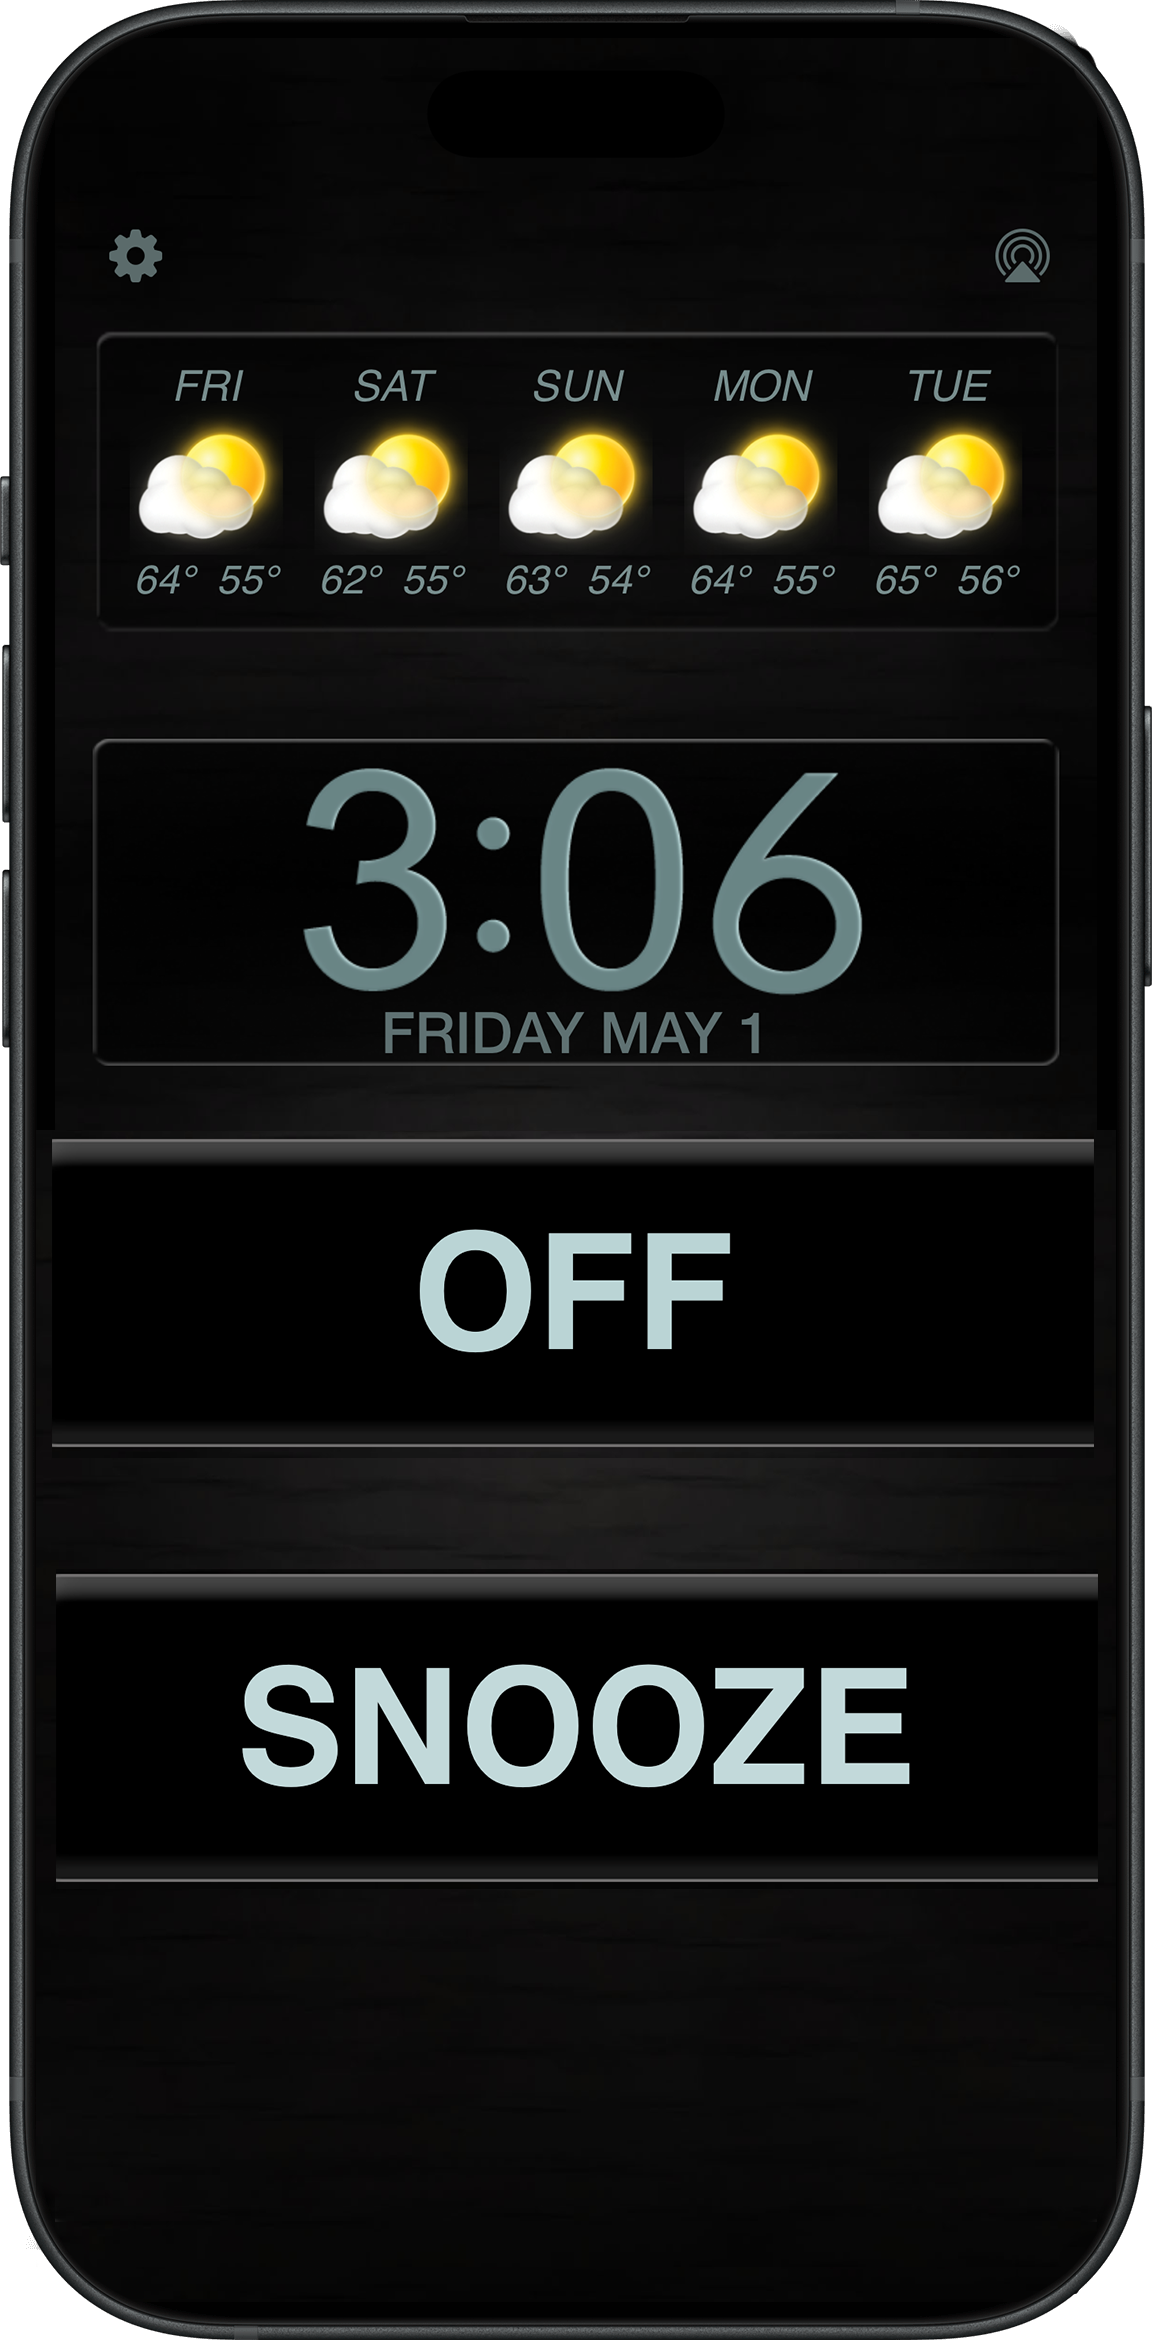
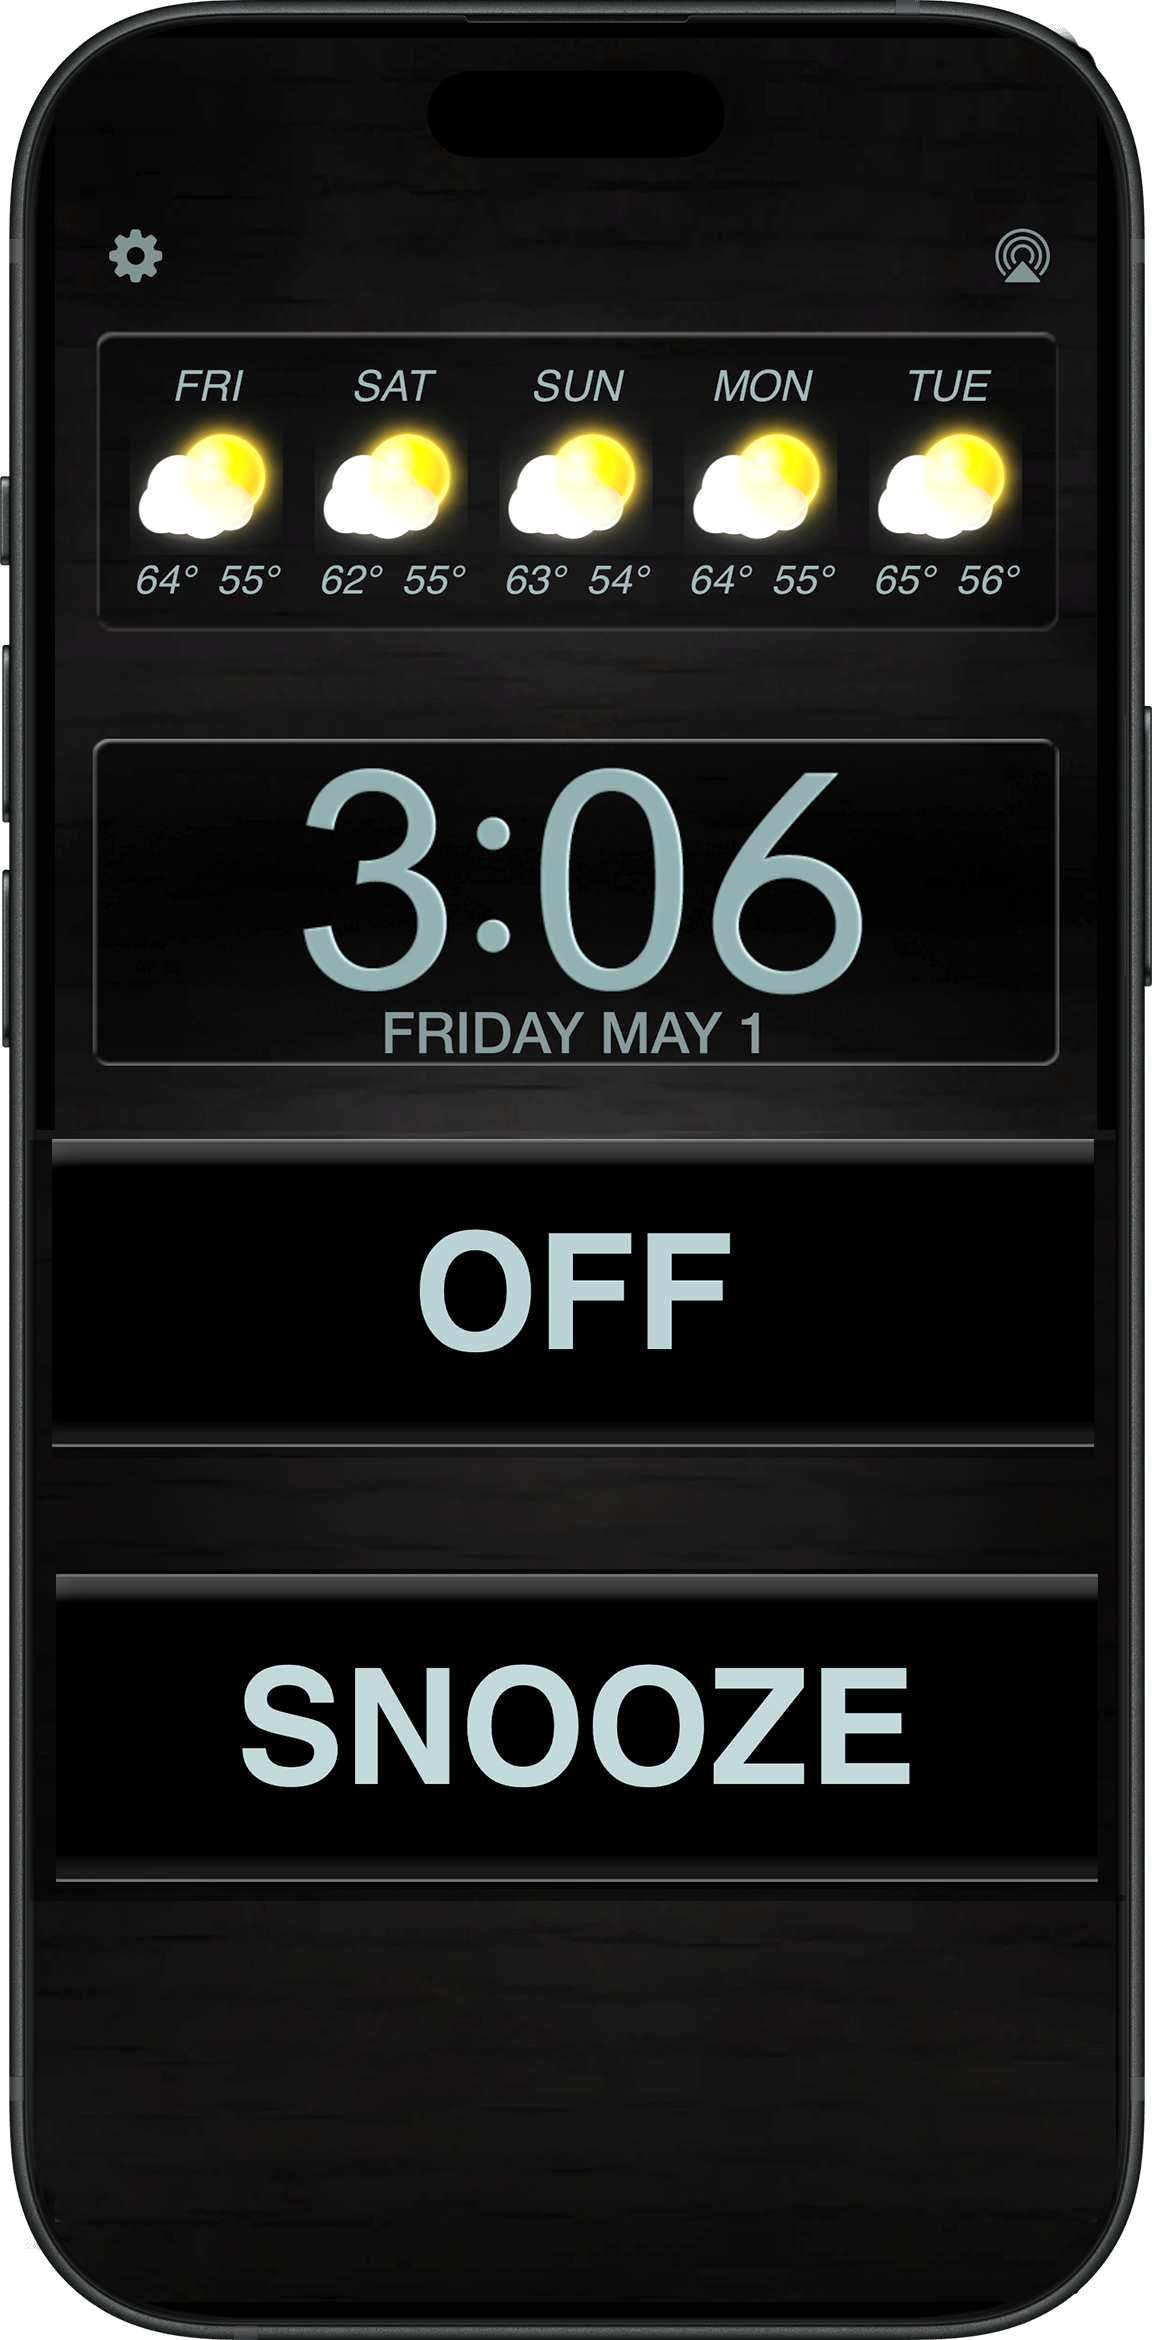
Update alarm and snooze iPhone image

diff --git a/index.html b/index.html
@@ -237,7 +237,7 @@
               class="feature-phone-window"
             >
               <img
-                src="assets/3 iphone Alarm.png?v=20261029"
+                src="assets/3 iphone Alarm.png?v=d87b2a2039"
                 alt="Best Clock Radio alarm settings on iPhone"
                 class="feature-phone-image"
               />
